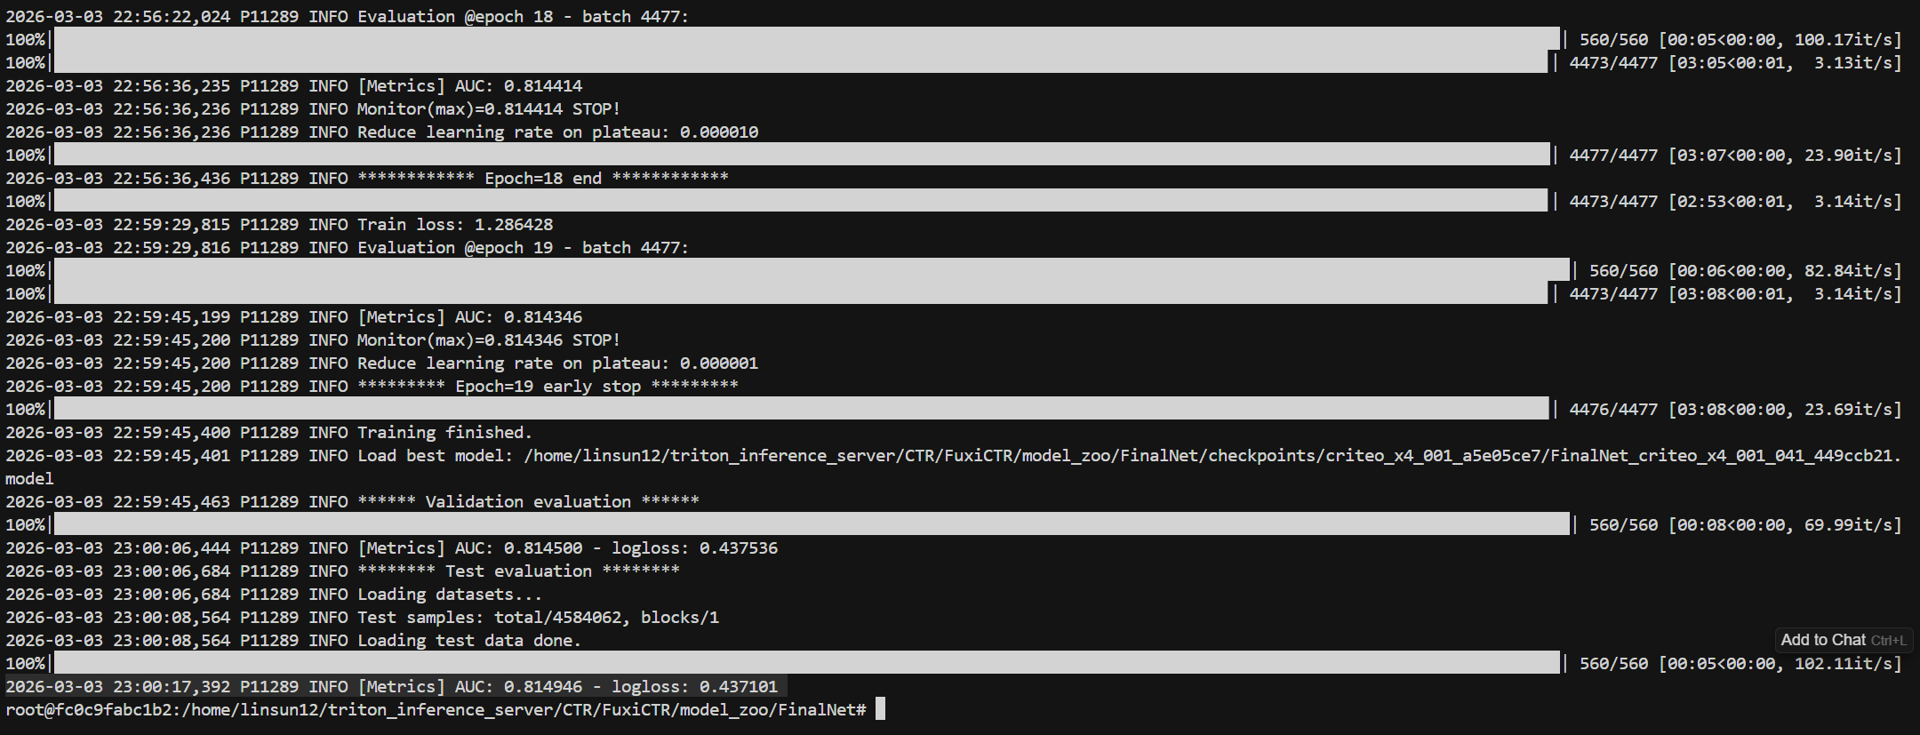
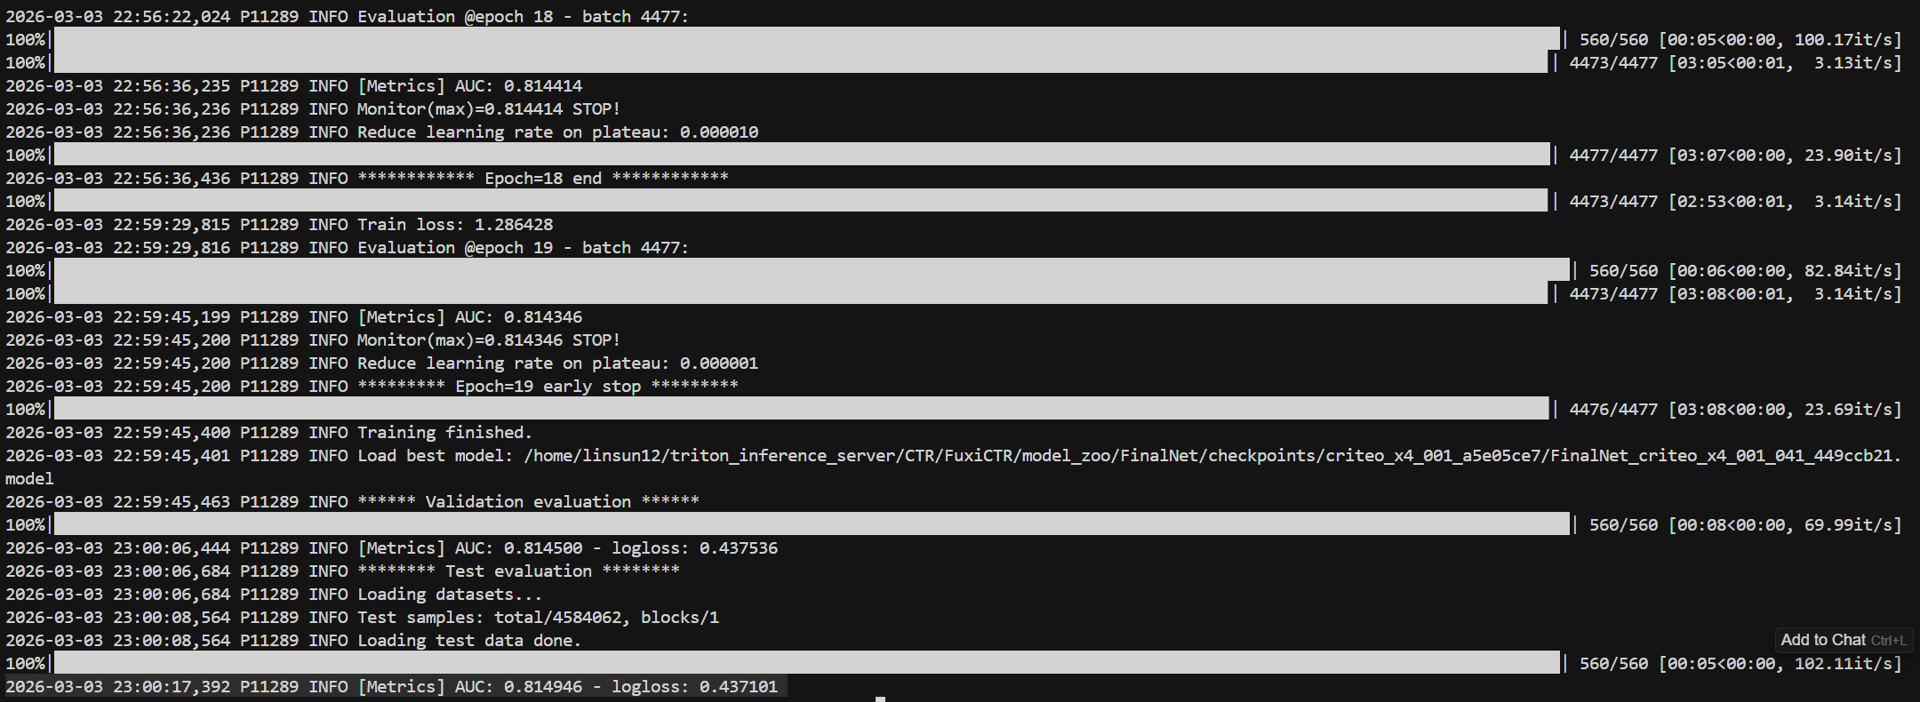
modify FinalNet perf instructions

diff --git a/docs/perf_benchmark/FinalNet/FinalNet_benchmark.md b/docs/perf_benchmark/FinalNet/FinalNet_benchmark.md
@@ -20,50 +20,13 @@ In this tutorial, we walk through the steps required to benchmark the performanc
 4. Docker
 
 
-## Model Training on NVIDIA GPU
-1. Pull pytorch container from NGC and start container
-```
-export WORKSPACE=<Your workspace directory on host>
-docker pull nvcr.io/nvidia/pytorch:25.12-py3
-docker run -d --runtime nvidia --gpus all  --cap-add=SYS_PTRACE --ipc=host --privileged=true \
-        --shm-size=128GB --network=host --device=/dev/kfd \
-        --device=/dev/dri --group-add video -it \
-        -v $WORKSPACE:/workspace \
-        --name train_CTR \
-        nvcr.io/nvidia/pytorch:25.12-py3
-```
-1. inside the container, pull reczoo/BARS
-```bash
-cd /workspace
-git clone https://github.com/reczoo/BARS.git
-cd BARS/ranking/ctr/FinalNet/FinalNet_criteo_x4_001
-```
-2. inside the container, uses FuxiCTR to train FinalNet model, FuxiCTR can be insalled either using pip or pull source code
-```bash
-git clone -b v2.2.0 https://github.com/reczoo/FuxiCTR.git
-cd FuxiCTR && pip install -r requirements.txt
-```
-3. inside the container, pull dataset repo
-```bash
-git clone https://github.com/reczoo/Datasets.git
-```
-4. inside the container, Create data directory
-```bash
-cd /workspace/FuxiCTR/model_zoo
-mkdir -p ./data/Criteo/Criteo_x4 && cd ./data/Criteo/Criteo_x4
-wget https://huggingface.co/datasets/reczoo/Criteo_x4/resolve/main/Criteo_x4.zip?download=true
-unzip Criteo_x4.zip
-```
-5. inside the container, data config and model config files are under /workspace/BARS/ranking/ctr/FinalNet/FinalNet_criteo_x4_001/FinalNet_criteo_x4_tuner_config_05 use these config for training FinalNet on Criteo_x4 dataset
-```bash
-cd /workspace/FuxiCTR/model_zoo/FinalNet
+## Model Training
+1. Train FinalNet   
+[How to train FinalNet on Criteo_x4 dataset](#https://github.com/reczoo/BARS/tree/main/ranking/ctr/FinalNet/FinalNet_criteo_x4_001)   
+At the end of training you should see
+![FinalNet training](images/FinalNet_training_result.png)
 
-PYTHONPATH="/workspace/FuxiCTR:$PYTHONPATH" python run_expid.py --config /workspace/BARS/ranking/ctr/FinalNet/FinalNet_criteo_x4_001/FinalNet_criteo_x4_tuner_config_05 --expid FinalNet_criteo_x4_001_041_449ccb21 --gpu 0 > run.log & tail -f run.log
-```
-6. By end of training you should see following AUC and logloss from testing data
-![FinalNet training result](images/FinalNet_training_result.png)
-
-7. inside the container, export model checkpoints to .onnx
+2. Export model checkpoints to .onnx
 ```python
 python export_finalnet_to_onnx.py \\
 --checkpoint /path/to/model.model \\
